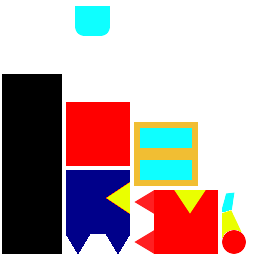
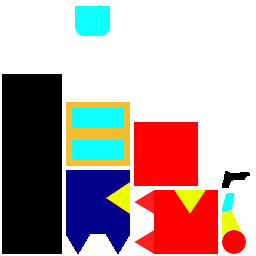
Jenny's got a gun

Changed region(s): [[0.25, 0.375, 0.7812, 0.75], [0.8438, 0.6562, 1.0, 0.75]]

diff --git a/Assets/Scripts/CharacterBody.cs b/Assets/Scripts/CharacterBody.cs
@@ -6,6 +6,8 @@ using System.Collections;
 public class CharacterBody : MonoBehaviour {
 public bool lerp;
 	
+	public bool doPrintState = false;
+	
 	public LayerMask surfaces;
 	public LayerMask obstacles;
 	public LayerMask hooks;
@@ -65,7 +67,8 @@ public bool lerp;
 	// Gravity
 	public float gravity = 2;
 	private float currentGravity;
-	public float knockbackDistance;
+	public float knockbackMultiplier = 1;
+	public float knockbackSpeed = 12;
 	
 	// Jump handling
 	private float jumpResource;
@@ -110,6 +113,14 @@ public bool lerp;
 		currentHealth = maxHealth;
 	}
 	
+	
+	public void damage(int damage) {
+		currentHealth -= damage;
+		knockBack(new Vector2(1, 0.25f));
+		if(currentHealth <= 0) {
+			DestroyObject(gameObject);
+		}
+	}
 	// Jumping
 	
 	public void startJump(bool forced) {
@@ -118,7 +129,7 @@ public bool lerp;
 				state = States.jumping;
 				amountToMove.y = 0;
 				jumpResource = jumpHeight;
-				Debug.Log(state);
+				printState();
 			}
 		}
 	}
@@ -127,7 +138,7 @@ public bool lerp;
 		if((forcedMovement && forced) || !forcedMovement) {
 			if(state == States.jumping) {
 				state = States.falling;
-				Debug.Log(state);
+				printState();
 			}
 		}
 	}
@@ -176,8 +187,10 @@ public bool lerp;
 	// Movement orders
 	
 	public void moveTo(Vector2 position) {
-		forcedMovement = true;
-		destination = position;
+		if(state != States.knocked) {
+			forcedMovement = true;
+			destination = position;
+		}
 	}
 	
 	public void flyTo(Vector2 position) {
@@ -200,12 +213,12 @@ public bool lerp;
 		hookTo(position);
 	}
 	
-	public void knockBack() {
+	public void knockBack(Vector2 power) {
 		if(state != States.knocked) {	
 			forcedMovement = true;
-			destination = new Vector3(transform.position.x - facing * knockbackDistance, transform.position.y + knockbackDistance / 4);
+			destination = new Vector3(transform.position.x - facing * power.x, transform.position.y + power.y);			
 			state = States.knocked;
-			Debug.Log(state);
+			printState();
 		}
 	}
 	
@@ -214,7 +227,7 @@ public bool lerp;
 		
 		if(state == States.railing && direction.y < 0 ) {
 			state = States.falling;
-			Debug.Log(state);
+			printState();
 			forcedMovement = false;
 		}
 		
@@ -224,23 +237,23 @@ public bool lerp;
 				if(direction.y != 0) {
 					if(state != States.climbing && /*(state != States.dropping || direction.y > 0) &&*/ state != States.hooking && state != States.railing && state != States.knocked) {
 						state = States.climbing;
-						Debug.Log(state);
+						printState();
 					}
 				}
 			} else {
 				// If there are no ladders nearby and we are climbing - stop climbing
 				if(state == States.climbing) {
 					state = States.falling;
-					Debug.Log(state);
+					printState();
 				} else {
 					// If we are grounded
 					if(state == States.grounded && direction.y < 0) {
 						state = States.dropping;
-						Debug.Log(state);
+						printState();
 					} else {
 						if(state == States.dropping && direction.y >= 0) {
 							state = States.falling;
-							Debug.Log(state);
+							printState();
 						}
 					}
 				}
@@ -249,7 +262,7 @@ public bool lerp;
 			// If we are on a hook and press down, start falling 
 			if(!forcedMovement && state == States.hooking && (direction.y != 0 || direction.x != 0)) {
 				state = States.falling;
-				Debug.Log(state);
+				printState();
 			}
 					
 			
@@ -290,8 +303,8 @@ public bool lerp;
 					amountToMove.y = (destination - transform.position).normalized.y * railSpeed * Time.smoothDeltaTime;
 					break;
 				case States.knocked:
-					amountToMove.x = (destination - transform.position).normalized.x * jumpSpeed * Time.smoothDeltaTime;
-					amountToMove.y = (destination - transform.position).normalized.y * jumpSpeed * Time.smoothDeltaTime;
+					amountToMove.x = (destination - transform.position).normalized.x * knockbackSpeed * Time.smoothDeltaTime;
+					amountToMove.y = (destination - transform.position).normalized.y * knockbackSpeed * Time.smoothDeltaTime;
 					break;
 				default:
 					amountToMove.x = 0;
@@ -317,11 +330,11 @@ public bool lerp;
 					if(railing) {
 						railing = false;
 						state = States.railing;
-						Debug.Log(state);
+						printState();
 					} else {
 						if(!attachToHook) {
 							state = States.falling;
-							Debug.Log(state);
+							printState();
 						}
 						forcedMovement = false;
 					}
@@ -332,7 +345,7 @@ public bool lerp;
 				if(Mathf.Abs((transform.position.x - destination.x)) < eps) {
 					forcedMovement = false;
 					state = States.falling;
-					Debug.Log(state);
+					printState();
 					
 				} else {
 					if(Mathf.Abs(transform.position.x - prevPosition.x) == 0) {
@@ -364,7 +377,7 @@ public bool lerp;
 			// Nothing beneath our feet
 			if(dist == 0) {
 				state = States.falling;
-				Debug.Log(state);
+				printState();
 			}
 			break;
 		case States.falling:
@@ -374,7 +387,7 @@ public bool lerp;
 			// Hit the ground
 			if(dist != 0) {
 				state = States.grounded;
-				Debug.Log(state);
+				printState();
 			}
 			break;
 		case States.dropping:
@@ -384,7 +397,7 @@ public bool lerp;
 			// Hit the ground
 			if(dist != 0) {
 				state = States.grounded;
-				Debug.Log(state);
+				printState();
 			}
 			break;
 		case States.climbing:
@@ -394,7 +407,7 @@ public bool lerp;
 			// Hit something below us
 			if(dist != 0 && dir.y < 0) {
 				state = States.grounded;
-				Debug.Log(state);
+				printState();
 			}
 			break;
 		case States.jumping:
@@ -404,7 +417,7 @@ public bool lerp;
 			// Hit something above us
 			if(dist != 0) {
 				state = States.falling;
-				Debug.Log(state);
+				printState();
 			}
 			break;	
 		case States.hooking:
@@ -414,7 +427,7 @@ public bool lerp;
 			// Hit something 
 			if(dist != 0) {
 				state = States.falling;
-				Debug.Log(state);
+				printState();
 				forcedMovement = false;
 			}
 			break;
@@ -430,7 +443,7 @@ public bool lerp;
 			// Hit something above us
 			if(dist != 0) {
 				state = States.falling;
-				Debug.Log(state);
+				printState();
 			}
 			break;
 		default:
@@ -458,7 +471,7 @@ public bool lerp;
 			if(dist != 0) {
 				if(state == States.hooking || state == States.railing || state == States.knocked) {
 					state = States.falling;
-					Debug.Log(state);
+					printState();
 					forcedMovement = false;
 				}
 				if(dist > skin) {
@@ -496,13 +509,13 @@ public bool lerp;
 			ladderContacts++;
 		}
 		if(other.tag == "Door") {
-			knockBack();
+			knockBack(new Vector2(1, 0.25f));
 		}
 		if(other.tag == "DoorSensor") {
 			((DoorSensor)(other.GetComponent<DoorSensor>())).openDoor();
 		}
 		if(other.tag == "Enemy" && state != States.knocked) {
-			knockBack();
+			knockBack(new Vector2(1, 0.25f));
 		}
     }
 	
@@ -515,4 +528,11 @@ public bool lerp;
 		}
 
     }
+	
+	
+	void printState() {
+		if(doPrintState) {
+			Debug.Log(state);
+		}
+	}
 }

diff --git a/Assets/Scripts/Weapon.cs b/Assets/Scripts/Weapon.cs
@@ -1,0 +1,29 @@
+using UnityEngine;
+using System.Collections;
+
+public class Weapon : MonoBehaviour {
+	
+	public Ammo ammo;
+	public GameObject firingPoint;
+	public GameObject aimingPoint;
+	
+	
+	// Use this for initialization
+	void Start () {
+		ammo = GetComponent<Ammo>();
+	}
+	
+	// Update is called once per frame
+	void Update () {
+		if(Input.GetMouseButtonDown(0)) {
+			fire();
+		}
+	}
+			
+	public void fire() {
+		Vector2 origin = firingPoint.transform.position;
+		Vector2 direction = (aimingPoint.transform.position - firingPoint.transform.position).normalized;
+		ammo.fire(origin, direction);
+	}
+}
+

diff --git a/Assets/Scripts/Ammo.cs b/Assets/Scripts/Ammo.cs
@@ -1,0 +1,21 @@
+using UnityEngine;
+using System.Collections;
+
+public class Ammo : MonoBehaviour {
+	
+	
+	public LayerMask hittableObjects;
+	public float maxDistance = 20;
+	public int damage = 20;
+	
+	public void fire(Vector2 origin, Vector2 direction) {
+		RaycastHit hit;
+		if(Physics.Raycast(origin, direction, out hit, maxDistance, hittableObjects)) {
+			CharacterBody target = hit.collider.gameObject.GetComponent<CharacterBody>();
+			if(target != null) {
+				Debug.Log("hit!");
+				target.damage(damage);
+			}
+		}
+	}
+}
